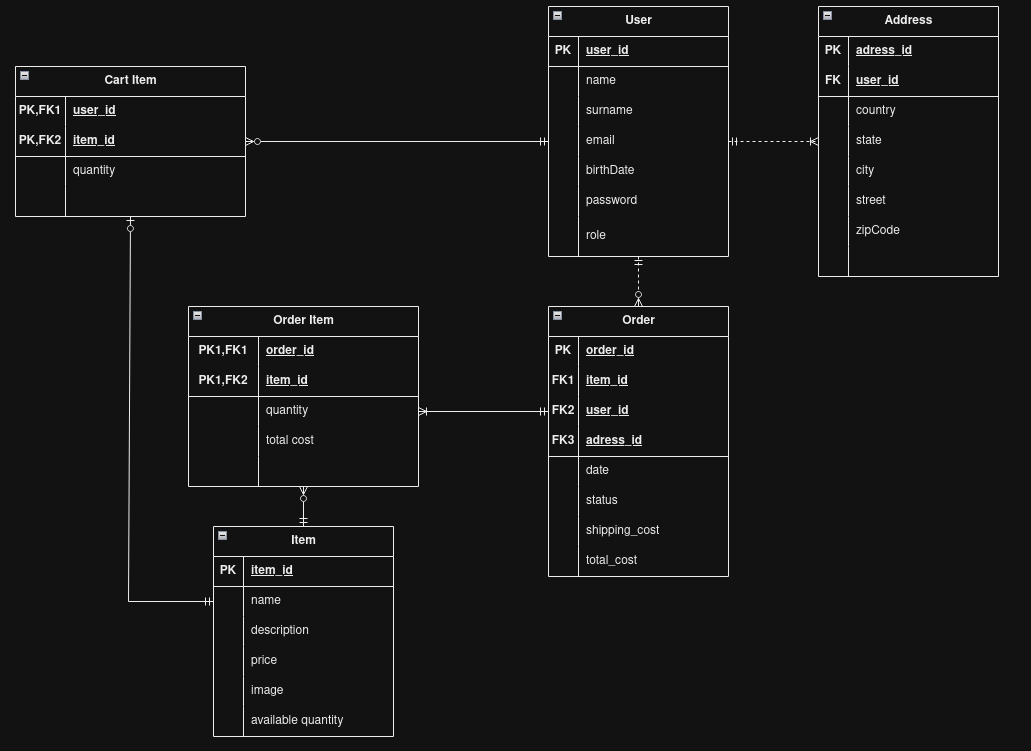
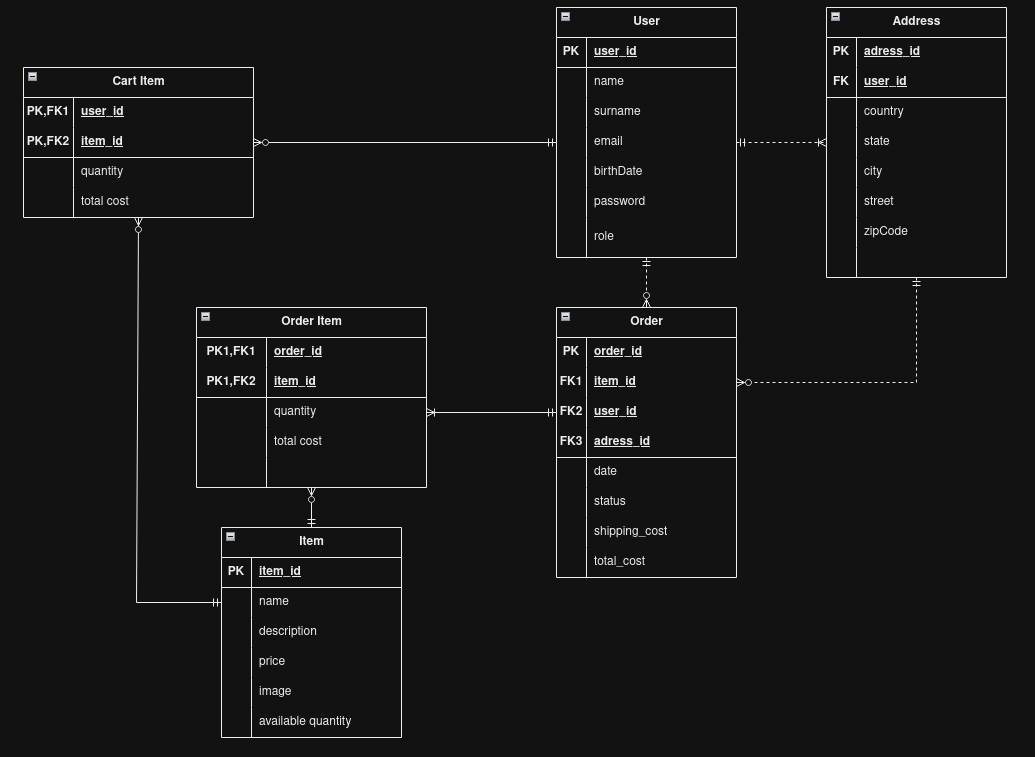
corrected entity diagram and implemented it with hibernate

diff --git a/src/main/java/com/example/shop/models/CartItem.java b/src/main/java/com/example/shop/models/CartItem.java
@@ -1,0 +1,35 @@
+package com.example.shop.models;
+
+import com.example.shop.Embeddables.CartItemId;
+import jakarta.annotation.Nullable;
+import jakarta.persistence.*;
+import lombok.Data;
+import lombok.NoArgsConstructor;
+
+@Entity
+@Data
+@NoArgsConstructor
+public class CartItem {
+    @EmbeddedId
+    private CartItemId id;
+
+    @ManyToOne(optional = false, fetch = FetchType.LAZY)
+    @MapsId("userId")
+    @JoinColumn(name = "user_id")
+    private User user;
+
+    @ManyToOne(optional = false, fetch = FetchType.LAZY)
+    @MapsId("itemId")
+    @JoinColumn(name = "item_id")
+    private Item item;
+
+    private Integer quantity;
+
+    public CartItem(User user, Item item, Integer quantity) {
+        this.id = new CartItemId(user.getId(), item.getId());
+        this.user = user;
+        this.item = item;
+        this. quantity =quantity;
+
+    }
+}

diff --git a/src/main/java/com/example/shop/models/OrderItem.java b/src/main/java/com/example/shop/models/OrderItem.java
@@ -1,0 +1,36 @@
+package com.example.shop.models;
+
+import com.example.shop.Embeddables.OrderItemId;
+import jakarta.persistence.*;
+import lombok.Data;
+import lombok.NoArgsConstructor;
+
+import java.math.BigDecimal;
+
+@Data
+@Entity
+@NoArgsConstructor
+
+public class OrderItem {
+    @EmbeddedId
+    private OrderItemId id;
+    @ManyToOne(fetch = FetchType.LAZY)
+    @MapsId("orderId")
+    @JoinColumn(name = "order_id")
+    private Order order;
+    @ManyToOne(fetch = FetchType.LAZY)
+    @MapsId("itemId")
+    @JoinColumn(name = "item_id")
+    private Item item;
+    private Integer quantity;
+    private BigDecimal totalCost;
+
+    public OrderItem (Order order, Item item, Integer quantity, BigDecimal totalCost){
+        this.order = order;
+        this.item = item;
+        this.quantity = quantity;
+        this.totalCost = totalCost;
+    }
+
+
+}

diff --git a/src/main/java/com/example/shop/models/Item.java b/src/main/java/com/example/shop/models/Item.java
@@ -1,12 +1,10 @@
 package com.example.shop.models;
 
-import jakarta.persistence.Entity;
-import jakarta.persistence.GeneratedValue;
-import jakarta.persistence.GenerationType;
-import jakarta.persistence.Id;
+import jakarta.persistence.*;
 import lombok.Data;
 
 import java.math.BigDecimal;
+import java.util.List;
 
 @Entity
 @Data
@@ -15,6 +13,10 @@ public class Item {
     @Id
     @GeneratedValue(strategy = GenerationType.AUTO)
     private Integer id;
+    @OneToMany(mappedBy = "item", orphanRemoval = true)
+    private List<OrderItem> orderItems;
+    @OneToMany(mappedBy = "item", cascade = CascadeType.ALL, orphanRemoval = true)
+    private List<CartItem> cartItems;
     private String name;
     private String description;
     private BigDecimal price;

diff --git a/src/main/java/com/example/shop/models/User.java b/src/main/java/com/example/shop/models/User.java
@@ -14,15 +14,14 @@ public class User {
     private Integer id;
     private String name;
     private String surname;
-    @OneToMany(cascade = CascadeType.ALL, fetch = FetchType.LAZY, orphanRemoval = true)
-    @JoinColumn(name = "user_id")
+    @OneToMany(mappedBy ="user", cascade = CascadeType.ALL, orphanRemoval = true)
     private List<Address> addresses;
     private String email;
     private String password;
     private String birthDate;
-    @OneToOne
-    private ShoppingCart shoppingCart;
-    @OneToMany
+    @OneToMany(mappedBy = "user", cascade = CascadeType.ALL, orphanRemoval = true)
+    private List<CartItem> cartItem;
+    @OneToMany(mappedBy = "user")
     private List<Order> orderList;
     private String roles;
 }

diff --git a/src/main/java/com/example/shop/models/Address.java b/src/main/java/com/example/shop/models/Address.java
@@ -1,9 +1,6 @@
 package com.example.shop.models;
 
-import jakarta.persistence.Entity;
-import jakarta.persistence.GeneratedValue;
-import jakarta.persistence.GenerationType;
-import jakarta.persistence.Id;
+import jakarta.persistence.*;
 import lombok.Data;
 
 @Entity
@@ -12,6 +9,10 @@ public class Address {
     @Id
     @GeneratedValue(strategy = GenerationType.AUTO)
     private int id;
+    @ManyToOne(fetch = FetchType.LAZY)
+    // @JoinColumn can be used to change the name of the user column
+    @JoinColumn(name = "user_id")
+    private User user;
     private String country;
     private String state;
     private String city;

diff --git a/src/main/java/com/example/shop/models/Order.java b/src/main/java/com/example/shop/models/Order.java
@@ -13,13 +13,13 @@ public class Order {
     @Id
     @GeneratedValue(strategy = GenerationType.AUTO)
     private Integer id;
-    @ManyToOne
+    @ManyToOne(fetch = FetchType.LAZY)
     private User user;
     private String status;
     private Integer total_price;
-    @OneToMany
-    private List<Item> itemList;
-    @OneToOne(fetch = FetchType.LAZY)
+    @OneToMany(mappedBy = "order", orphanRemoval = true)
+    private List<OrderItem> orderItemList;
+    @ManyToOne(fetch = FetchType.LAZY)
     private Address shippingAddress;
 
 

diff --git a/src/main/java/com/example/shop/Embeddables/CartItemId.java b/src/main/java/com/example/shop/Embeddables/CartItemId.java
@@ -1,0 +1,21 @@
+package com.example.shop.Embeddables;
+
+import jakarta.persistence.Column;
+import jakarta.persistence.Embeddable;
+import lombok.AllArgsConstructor;
+import lombok.Data;
+import lombok.NoArgsConstructor;
+
+import java.io.Serializable;
+
+@Embeddable
+@Data
+@AllArgsConstructor
+@NoArgsConstructor
+
+public class CartItemId implements Serializable {
+        @Column(name="user_id")
+        private Integer userId;
+        @Column(name = "item_id")
+        private Integer itemId;
+}

diff --git a/src/main/java/com/example/shop/Embeddables/OrderItemId.java b/src/main/java/com/example/shop/Embeddables/OrderItemId.java
@@ -1,0 +1,20 @@
+package com.example.shop.Embeddables;
+import jakarta.persistence.Column;
+import jakarta.persistence.Embeddable;
+import lombok.AllArgsConstructor;
+import lombok.Data;
+import lombok.NoArgsConstructor;
+
+import java.io.Serializable;
+
+@Data
+@NoArgsConstructor
+@AllArgsConstructor
+@Embeddable
+public class OrderItemId implements Serializable {
+    @Column(name = "order_id")
+    private Integer orderId;
+    @Column(name = "item_id")
+    private Integer itemId;
+
+}
